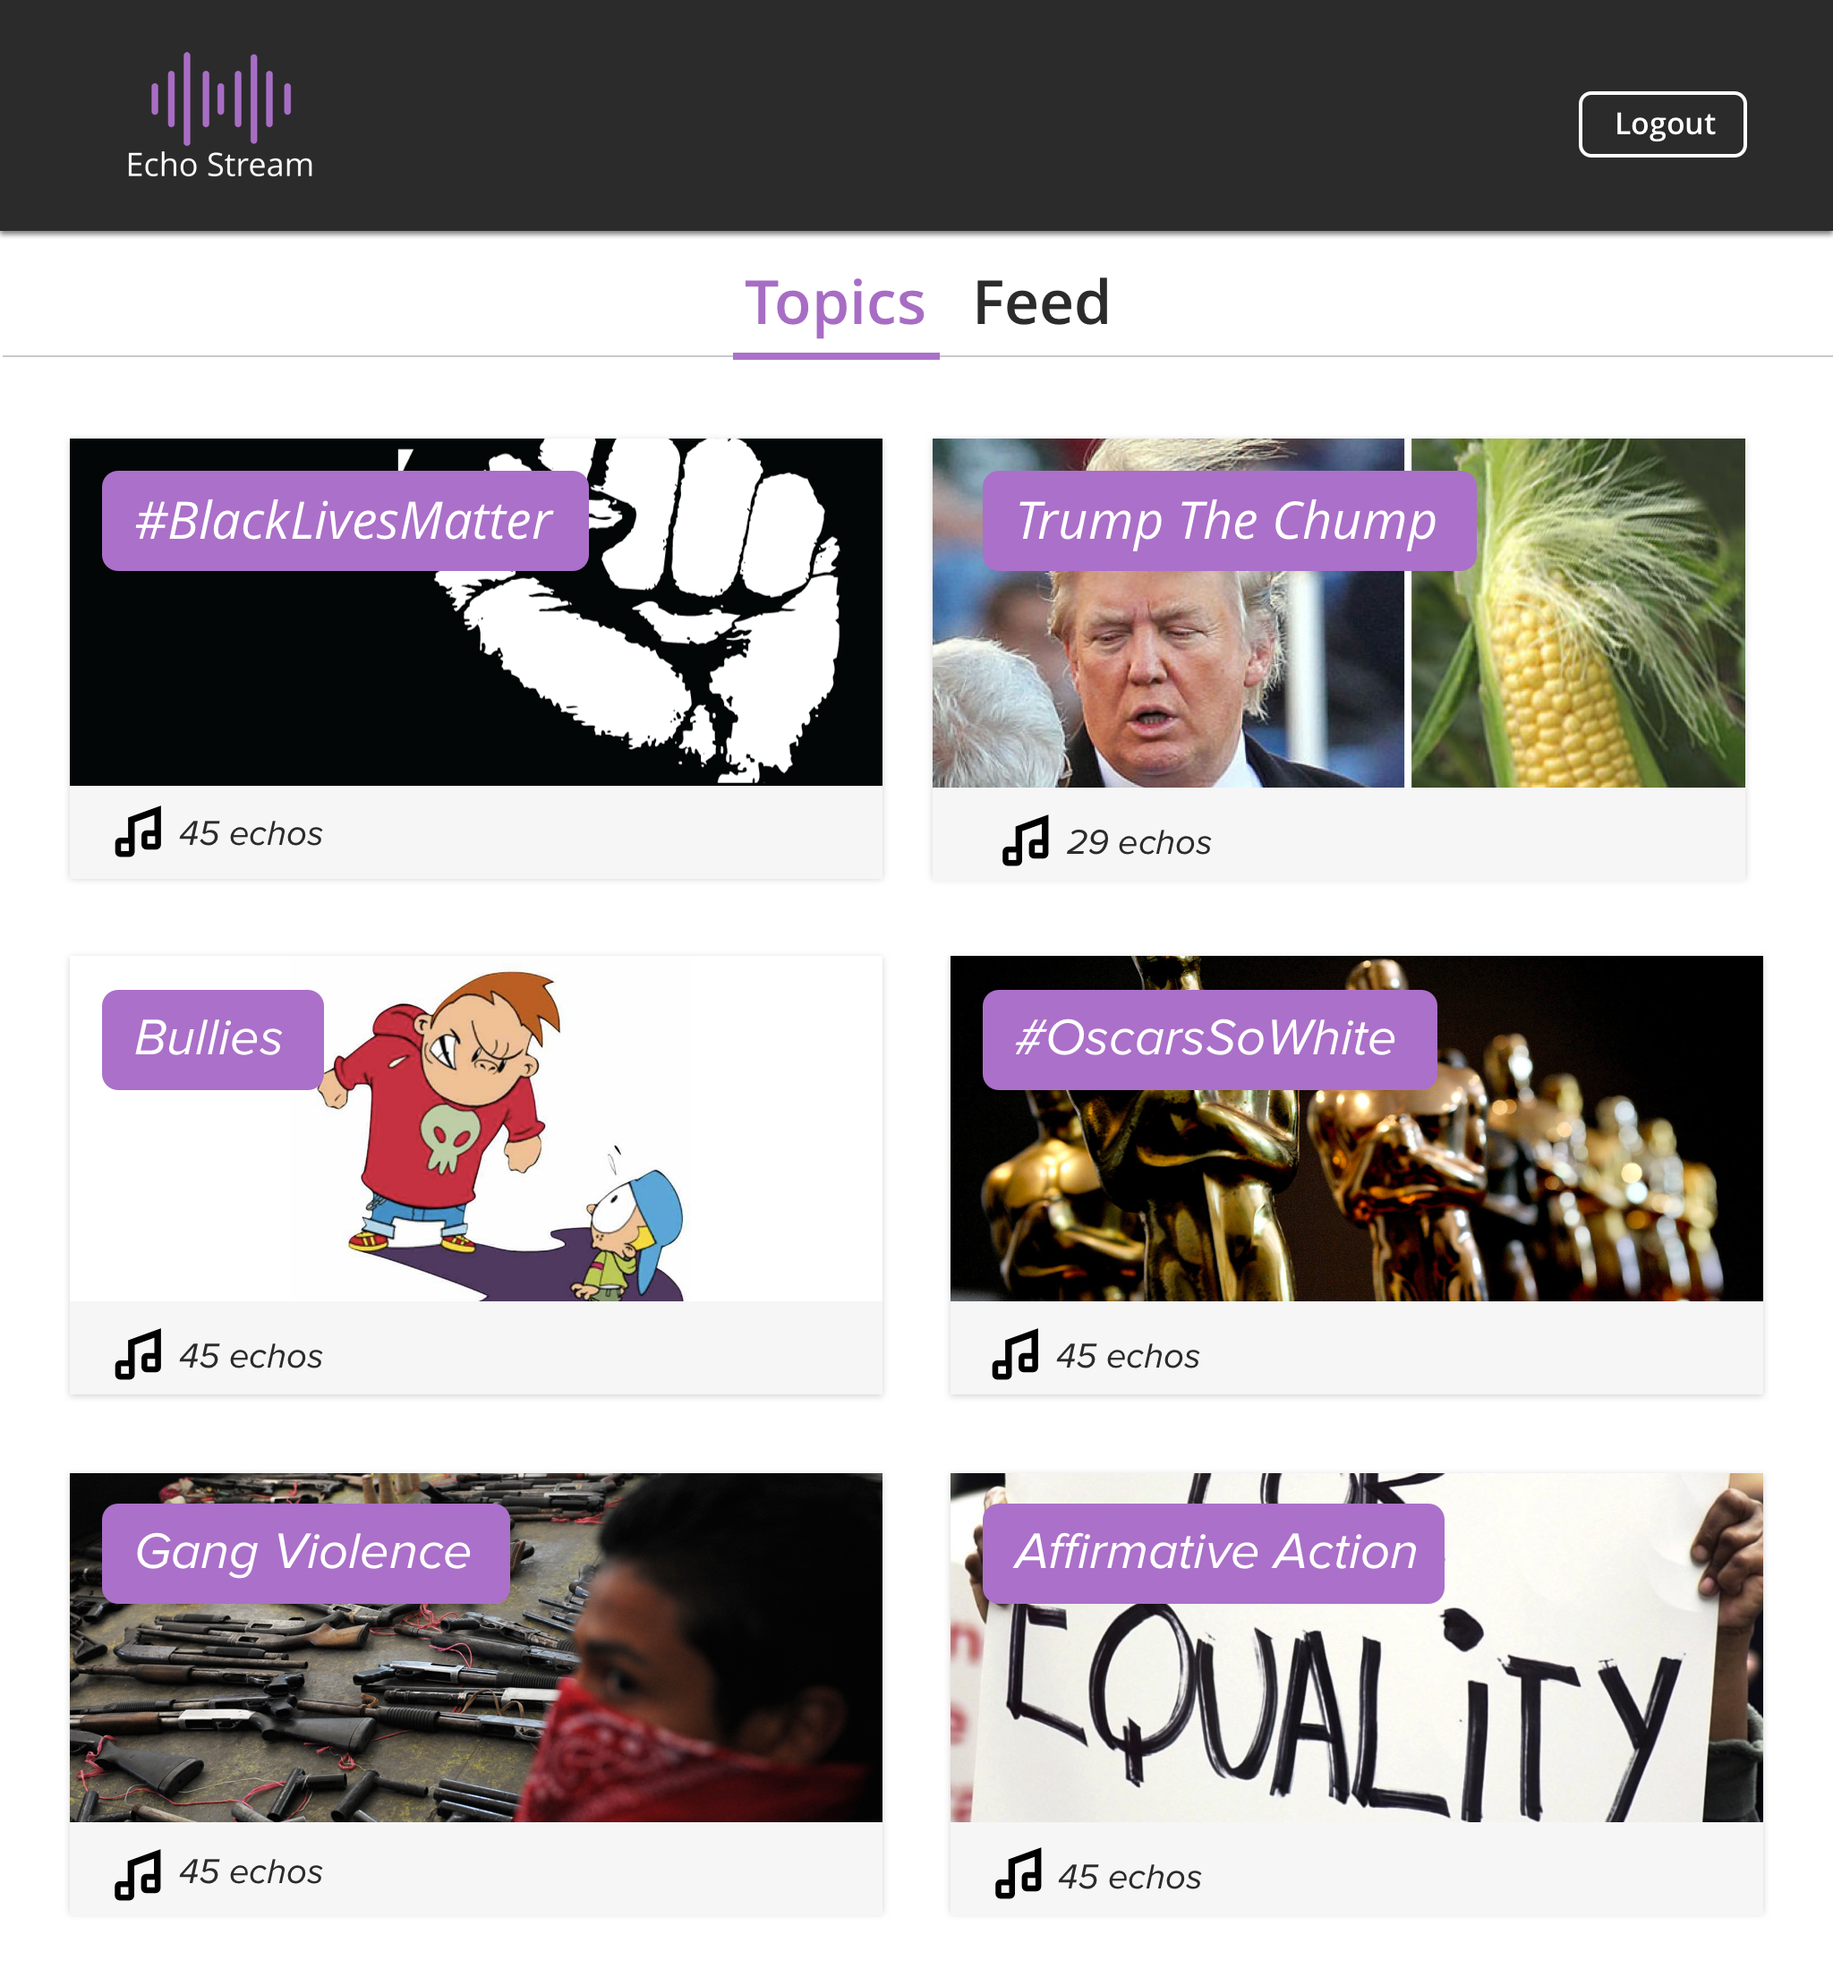
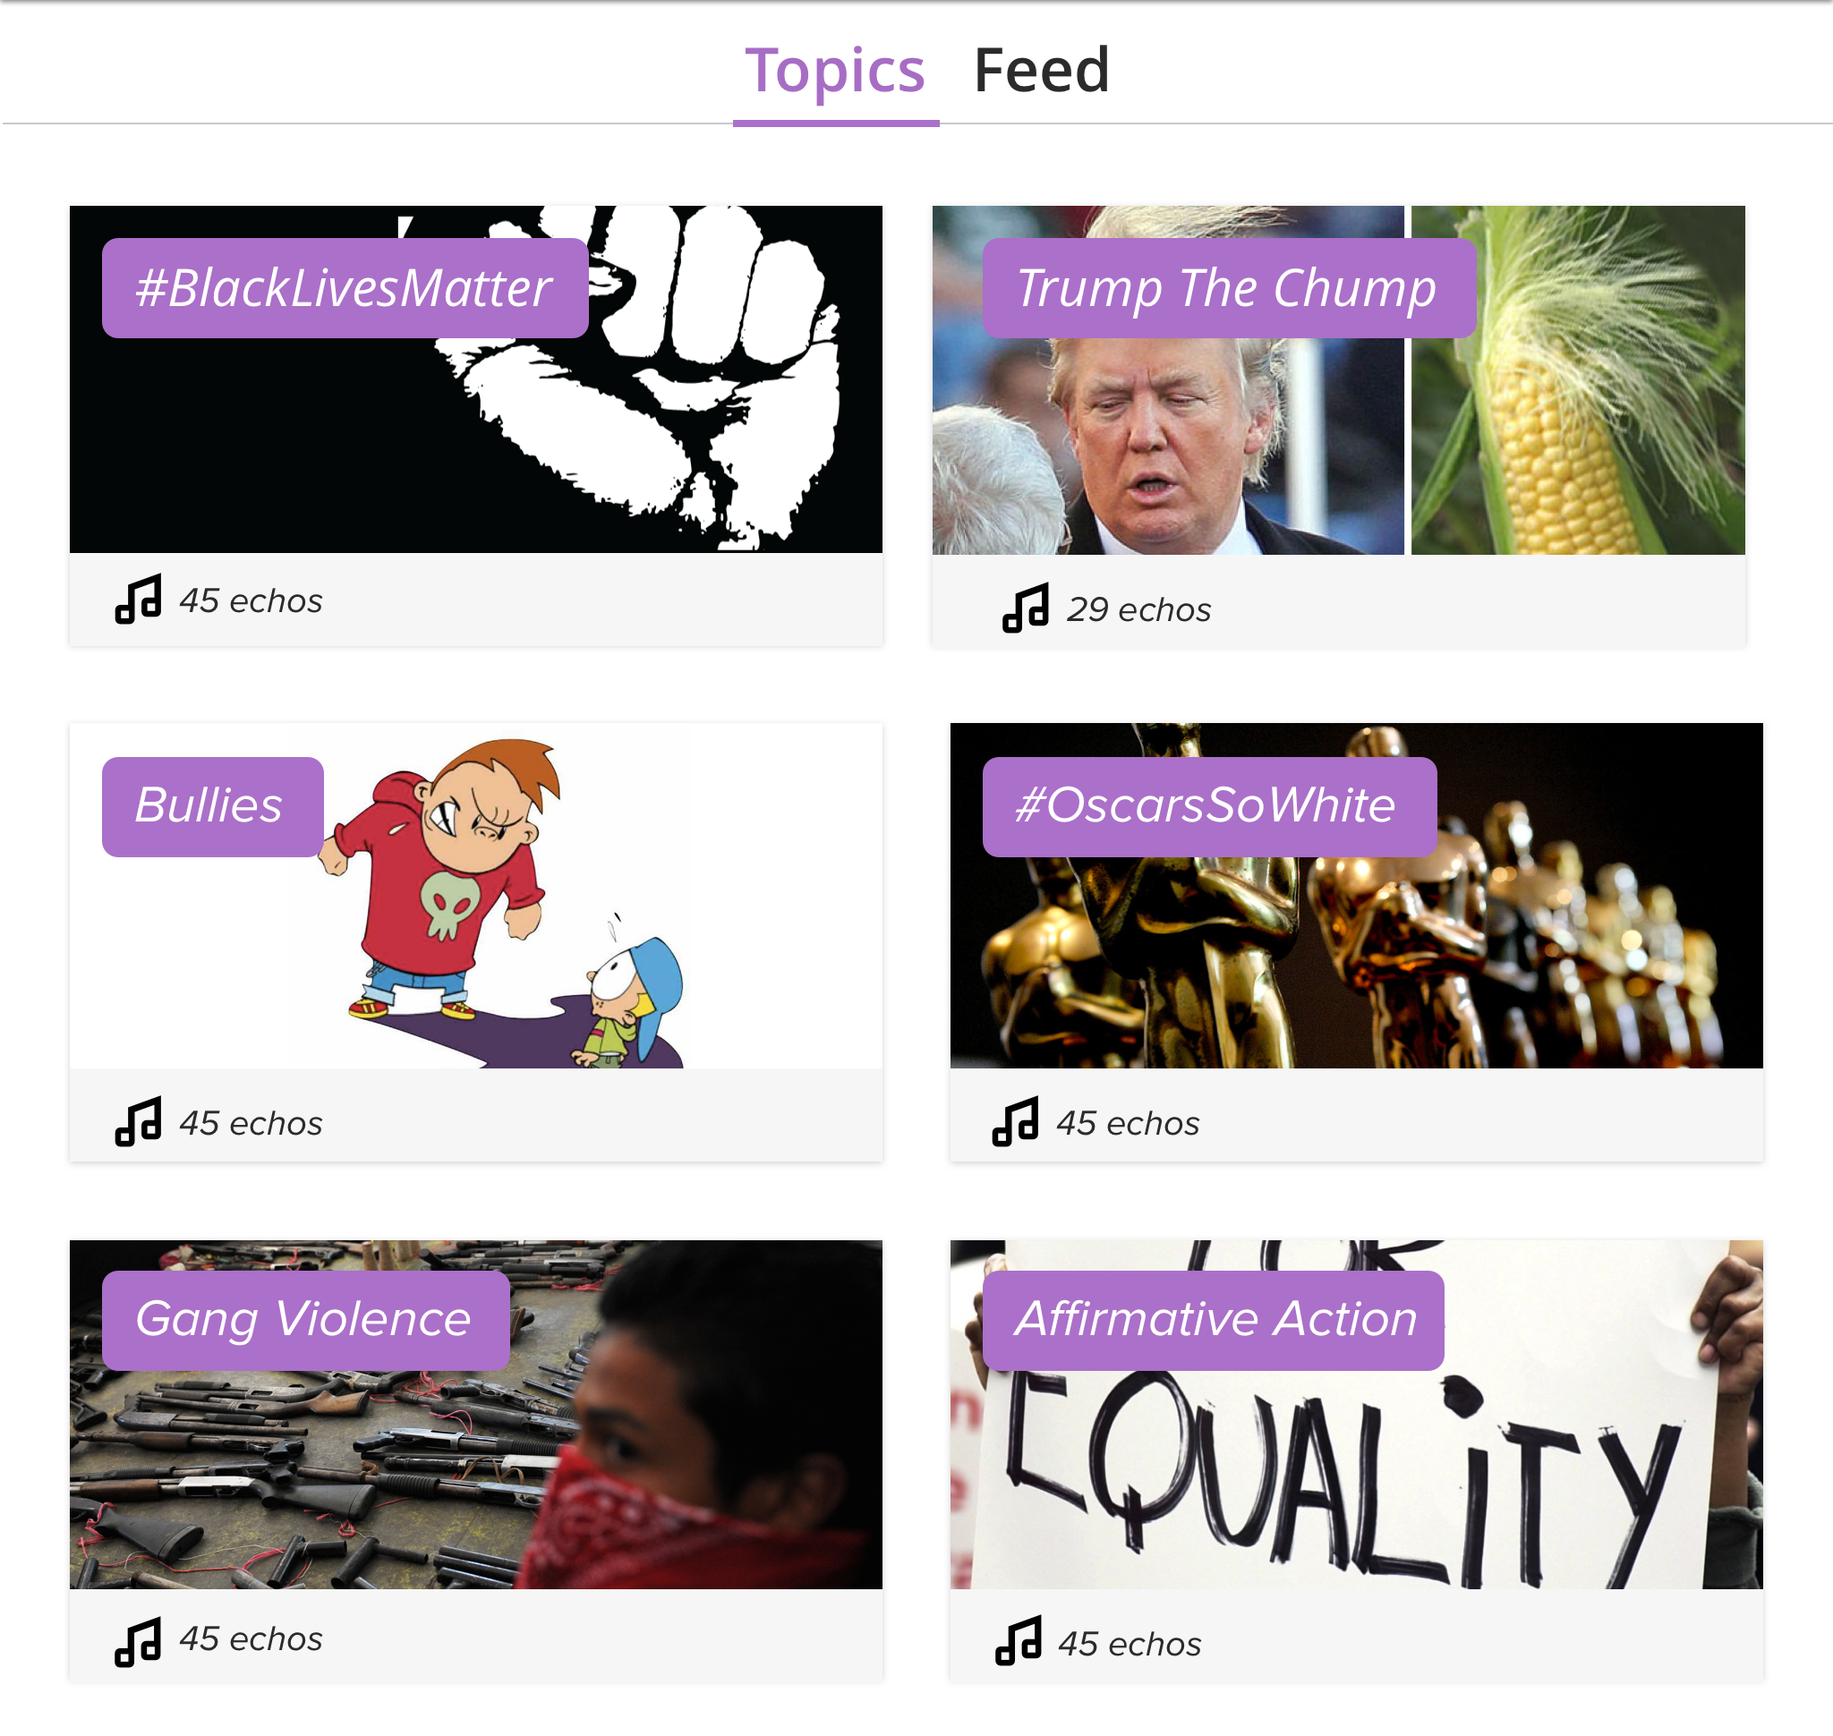
Fixes image resources, other polishes.

diff --git a/angular/app/components/audio-recorder/template.html b/angular/app/components/audio-recorder/template.html
@@ -5,10 +5,10 @@
         Collaborators
       </div>
       <div class="facelist-container">
-        <img src="/static/images/icons/PlaceHolderCollaboratorIcon.png" class="face">
-        <img src="/static/images/icons/PlaceHolderCollaboratorIcon.png" class="face">
-        <img src="/static/images/icons/PlaceHolderCollaboratorIcon.png" class="face">
-        <img src="/static/images/icons/PlaceHolderCollaboratorIcon.png" class="face">
+      <img src="/static/images/faces/face6.png" class="face">
+      <img src="/static/images/faces/face3.png" class="face">
+      <img src="/static/images/faces/face2.png" class="face">
+      <img src="/static/images/faces/face1.png" class="face">
       </div>
     </div>
     <div style="border-left: 1px solid #f4f4f4; border-top: 1px solid #f4f4f4; float: left; width: 70%; margin: 0 auto; position: relative; padding: 20px;">
@@ -42,15 +42,6 @@
   </div>
   <div style="width: 100%; border-top: 1px solid #f4f4f4;">
     <div style="float: left; width: 30%; padding: 20px;">
-      <div class="facelist-title md-title">
-        Collaborators
-      </div>
-      <div class="facelist-container">
-        <img src="/static/images/icons/PlaceHolderCollaboratorIcon.png" class="face">
-        <img src="/static/images/icons/PlaceHolderCollaboratorIcon.png" class="face">
-        <img src="/static/images/icons/PlaceHolderCollaboratorIcon.png" class="face">
-        <img src="/static/images/icons/PlaceHolderCollaboratorIcon.png" class="face">
-      </div>
     </div>
     <div style="border-left: 1px solid #f4f4f4; border-top: 1px solid #f4f4f4; float: left; width: 70%; margin: 0 auto; position: relative;">
       <div ng-repeat="sample in samples track by $index" style="position: relative; width: 100%; height: 80px;">

diff --git a/angular/router.js b/angular/router.js
@@ -11,29 +11,37 @@ app.config(function($stateProvider, $locationProvider, $urlRouterProvider) {
       }
     )
 
-      .state(
-        'root.index',
-        {
-          url: '/',
-          templateUrl: 'pages/root/login/template.html'
-        }
-      )
+    .state(
+      'root.index',
+      {
+        url: '/',
+        templateUrl: 'pages/root/login/template.html'
+      }
+    )
 
-      .state(
-        'root.create',
-        {
-          url: '/create',
-          templateUrl: 'pages/root/create/template.html'
-        }
-      )
+    .state(
+      'root.create',
+      {
+        url: '/create',
+        templateUrl: 'pages/root/create/template.html'
+      }
+    )
 
-      .state(
-        'root.echoes',
-      	{
-      	   url: '/echoes',
-      	   templateUrl: 'pages/root/echoes/template.html'
-      	}
-      )
+    .state(
+      'root.echoes',
+    	{
+      	url: '/echoes',
+      	templateUrl: 'pages/root/echoes/template.html'
+      }
+    )
+
+    .state(
+      'root.topics',
+      {
+        url: '/topics',
+        templateUrl: 'pages/root/topics/template.html'
+      }
+    )
 
   $urlRouterProvider.otherwise('/');
 

diff --git a/angular/app/pages/root/login/template.html b/angular/app/pages/root/login/template.html
@@ -4,7 +4,7 @@
   the JavaScript SDK to present a graphical Login button that triggers
   the FB.login() function when clicked.
 -->
-<img src="/static/images/EchoStream.png" onclick="javascript:window.location.replace('/topics');" class="logo">
+<img src="/static/images/icons/echo_logo.png" onclick="javascript:window.location.replace('/topics');" class="logo">
 <fb:login-button scope="public_profile,email" onlogin="javascript:window.location.replace('/topics');"></fb:login-button>
 <img id="fbPhoto" ng-src="{{ fb_photo }}">
 <p ng-show="loggedIn" class="login">Logging in...</p>

diff --git a/angular/app/components/song/template.html b/angular/app/components/song/template.html
@@ -26,7 +26,7 @@
         </div>
       </div>
       <!--TODO(jacoblee): Animate this. <img src="/static/images/icons/ContributeButton.svg" class="show-tracks-button" ng-class="showTracklist" ng-click="hideTracklist=''; showTracklist='isHidden'">-->
-      <img src="/static/images/icons/ContributeButton.svg" class="show-tracks-button" ng-click="redirectToCreatePage()">
+      <img src="/static/images/icons/ContributeButton.png" class="show-tracks-button" ng-click="redirectToCreatePage()">
     </div>
     <div class="soundwave"></div>
     </div>

diff --git a/angular/app/components/navigation-bar/template.html b/angular/app/components/navigation-bar/template.html
@@ -1,4 +1,4 @@
 <div class="navbar-container">
-  <img src="/static/images/icons/EchoStreamLogo.png">
-  <img src="/static/images/icons/Account3x.png" ng-hide="hideOn('/login')" class="logout-button">
+  <img src="/static/images/icons/echo_logo.png" class="echo-logo">
+  <img src="/static/images/icons/LogoutButton.svg" ng-hide="hideOn('/')" class="logout-button">
 </div>

diff --git a/angular/app/components/audio-recorder/directive.js b/angular/app/components/audio-recorder/directive.js
@@ -83,7 +83,7 @@ app.directive('audioRecorder', function() {
         container: elem[0].getElementsByClassName('preview')[0],
         waveColor: 'gray',
         progressColor: 'purple',
-        barWidth: 5,
+        barWidth: 2,
         fillParent: true,
         height: 80
       });

diff --git a/angular/app/components/song/directive.js b/angular/app/components/song/directive.js
@@ -9,7 +9,7 @@ app.directive('song', function() {
         container: elem[0].getElementsByClassName('soundwave')[0],
         waveColor: 'gray',
         progressColor: 'purple',
-        barWidth: 5,
+        barWidth: 2,
       });
 
       scope.wavesurfer.load(scope.item.raw_data);

diff --git a/angular/app/pages/root/echoes/controller.js b/angular/app/pages/root/echoes/controller.js
@@ -1,7 +1,6 @@
 app.controller('RootEchoesController', ['$scope', 'API', function($scope, API) {
   
   API.request('soundbites').index({}, function(error, response) {
-  	console.log(response.data);
     $scope.songs = response.data;
   });
 

diff --git a/angular/app/pages/root/topics/controller.js b/angular/app/pages/root/topics/controller.js
@@ -1,0 +1,7 @@
+app.controller('RootTopicsController', ['$scope', '$window', 'API', function($scope, $window, API) {
+
+  $scope.redirectToEchoesPage = function() {
+    $window.location.href = '/echoes';
+  };
+
+}]);

diff --git a/angular/app/pages/root/topics/template.html b/angular/app/pages/root/topics/template.html
@@ -1,0 +1,3 @@
+<div ng-controller="RootTopicsController">
+  <img src="/static/images/TopicScreenSTATIC_FINAL.png" class='static-page' onclick="javascript:window.location.replace('/echoes');">
+</div>

diff --git a/angular/app/pages/root/topics/style.scss b/angular/app/pages/root/topics/style.scss
@@ -1,0 +1,8 @@
+[ng-controller="RootTopicsController"] {
+
+  /* style your controller here */
+  .static-page {
+    width: 100vw;
+  }
+
+}

diff --git a/angular/app/components/audio-recorder/style.scss b/angular/app/components/audio-recorder/style.scss
@@ -4,4 +4,9 @@ audio-recorder {
     box-sizing: border-box;
   }
 
+  .face {
+    width: 50px;
+    height: 50px;
+  }
+
 }
